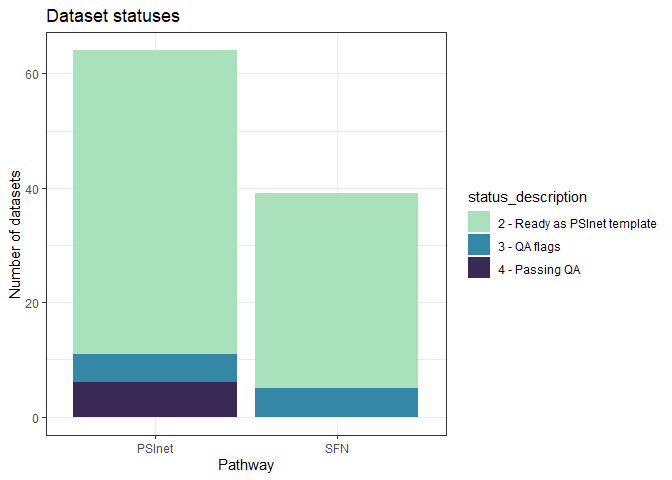
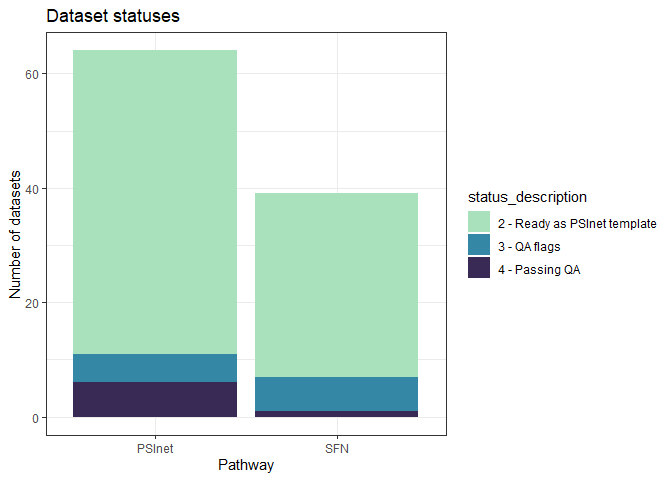
Adds two more SFN datasets.

Changed region(s): [[0.375, 0.8438, 0.625, 0.875], [0.375, 0.7812, 0.625, 0.8125]]

diff --git a/README.md b/README.md
@@ -14,5 +14,6 @@ This repo houses scripts for QA of PSInet data.
 | PSInet | 2 - Ready as PSInet template |  53 |
 | PSInet | 3 - QA flags                 |   5 |
 | PSInet | 4 - Passing QA               |   6 |
-| SFN    | 2 - Ready as PSInet template |  34 |
-| SFN    | 3 - QA flags                 |   5 |
+| SFN    | 2 - Ready as PSInet template |  32 |
+| SFN    | 3 - QA flags                 |   6 |
+| SFN    | 4 - Passing QA               |   1 |
